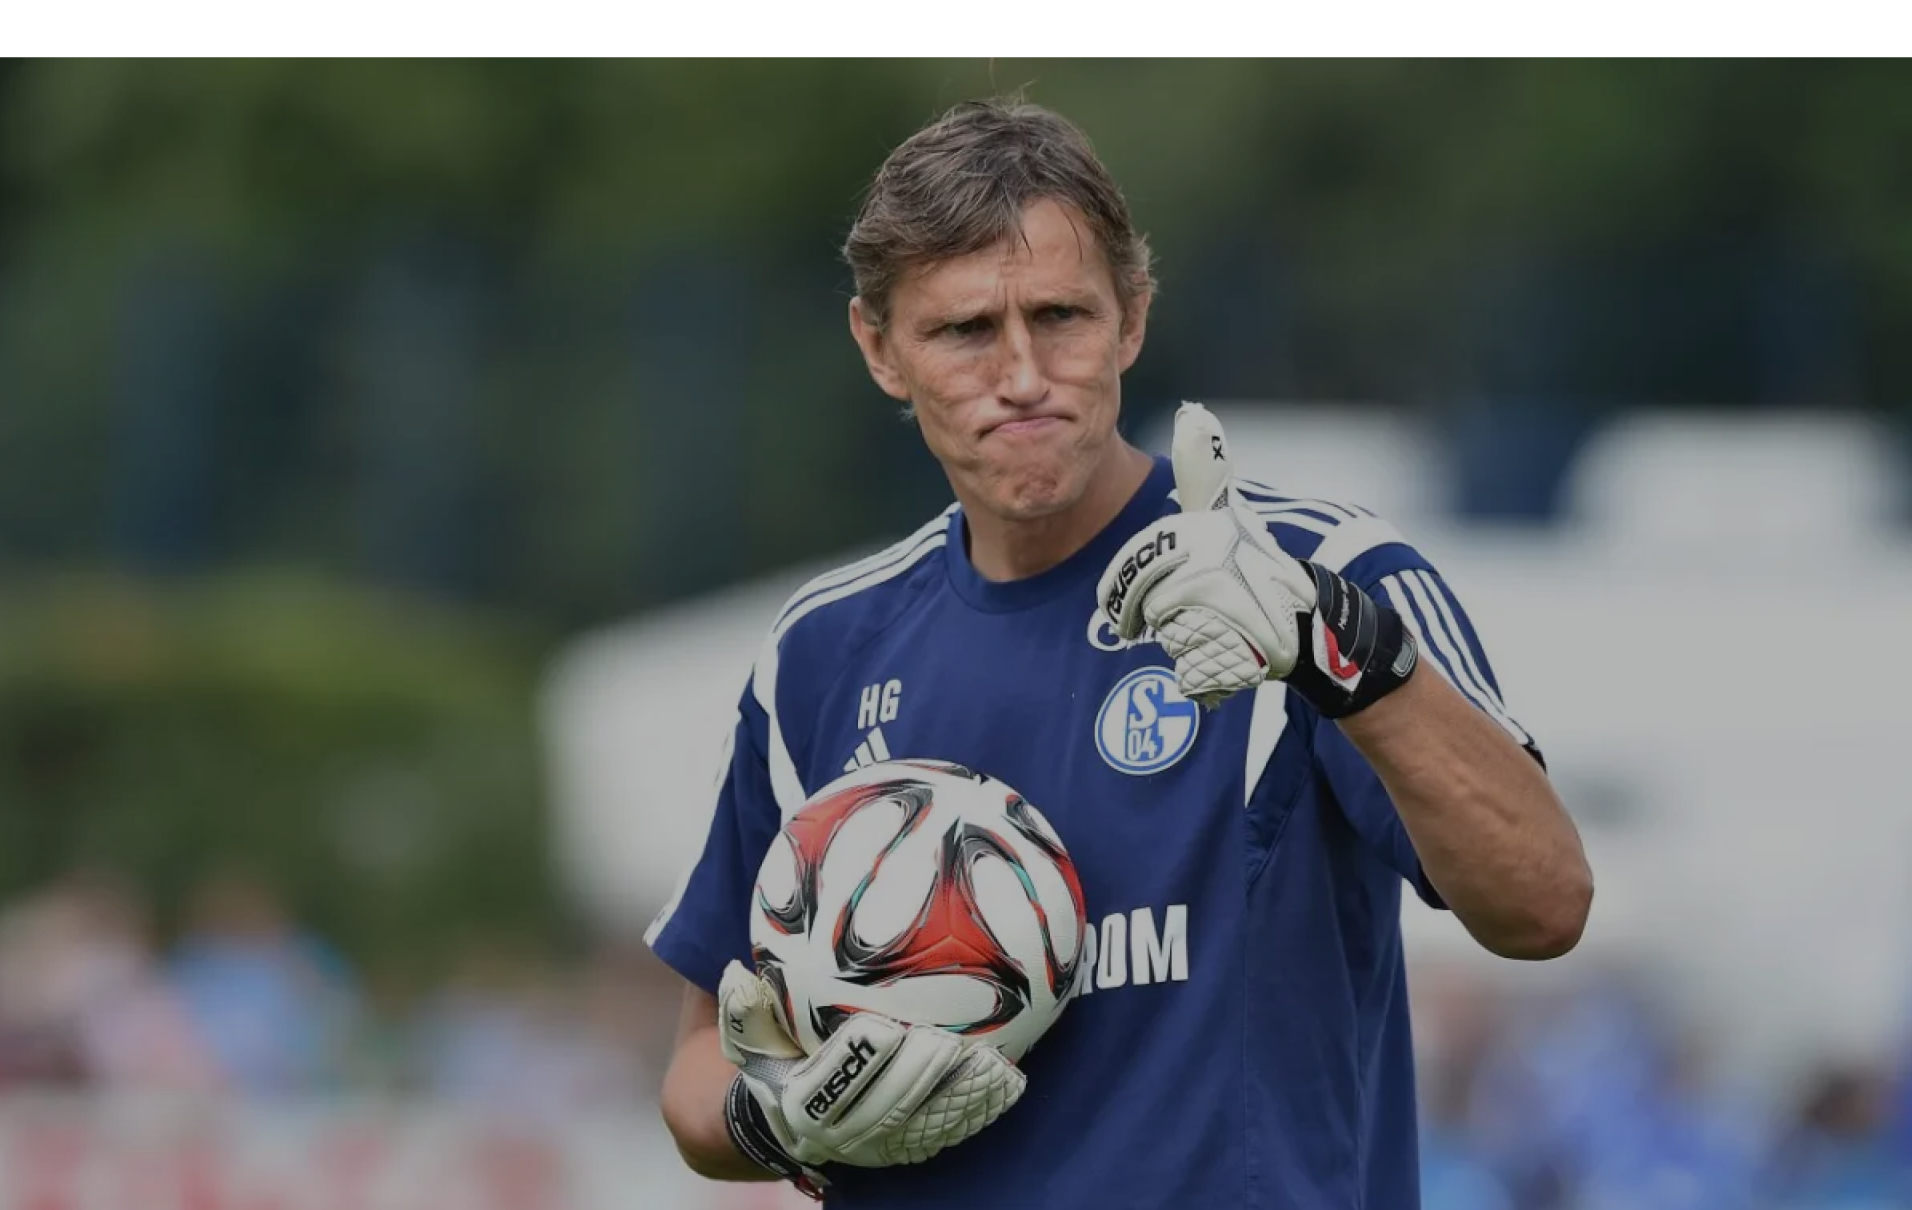
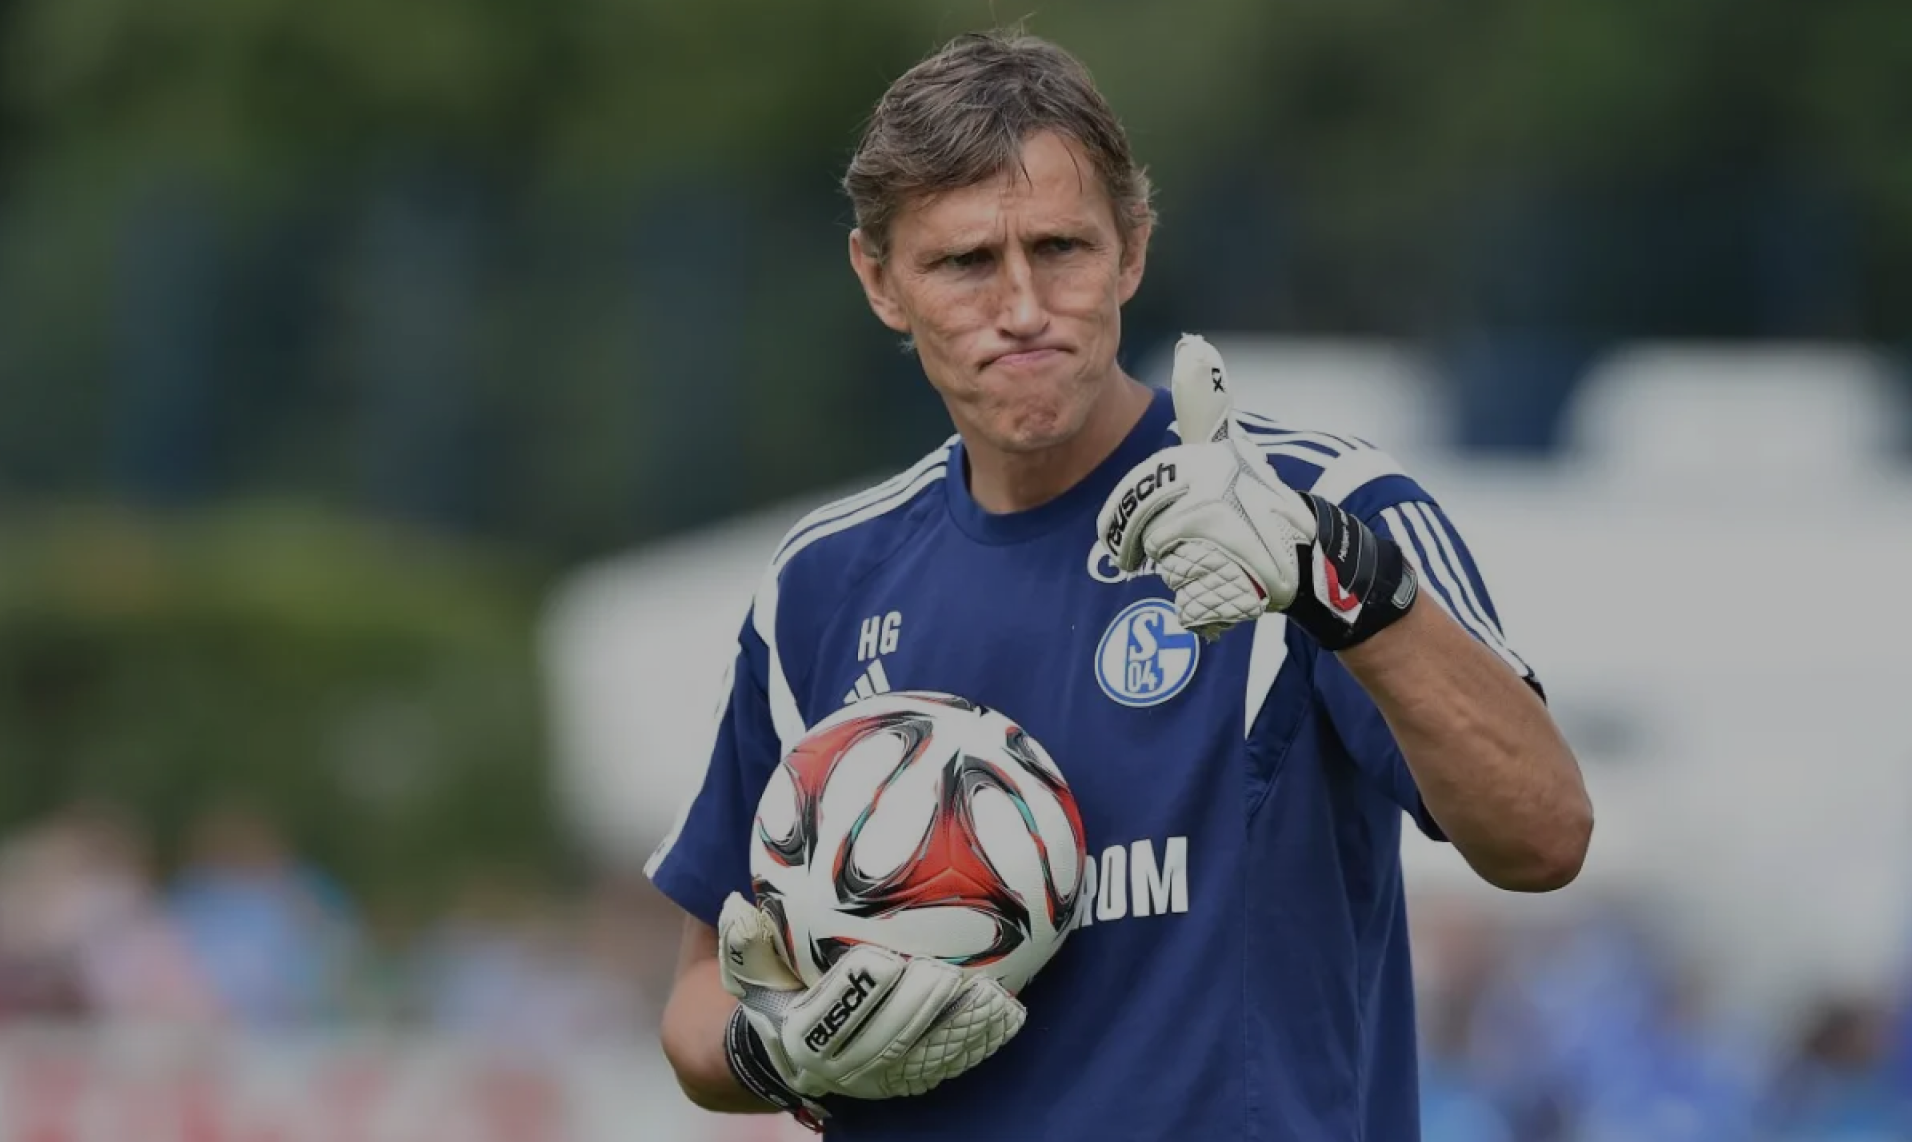
feat: new navbar

diff --git a/athlete.html b/athlete.html
@@ -44,17 +44,17 @@
    </head>
    <body class="">
       <section class="hero-page-athlete">
-         <nav class="navbar navbar-expand-lg navbar-dark bg-light">
-            <div class="container" data-aos="fade-down" data-aos-delay="100" data-aos-duration="400">
+         <nav class="navbar navbar-expand-lg navbar-linear-bg">
+            <div class="container">
                <a class="navbar-brand me-10" href="./">
                   <div class="f-w-10">
-                     <h3 class="display-7 text-dark">Holger Gehrke</h3>
+                     <h3 class="display-7 text-light">HG</h3>
                   </div>
                </a>
                <button class="nav-toggle-btn border-0 bg-transparent btn-open-slideout btn-toggle-slideout">
-               <span class="f-w-10 f-h-1 bg-black d-block mb-2"></span>
-               <span class="f-w-10 f-h-1 bg-black d-block mb-2"></span>
-               <span class="f-w-10 f-h-1 bg-black d-block"></span>
+               <span class="f-w-10 f-h-1 bg-white d-block mb-2"></span>
+               <span class="f-w-10 f-h-1 bg-white d-block mb-2"></span>
+               <span class="f-w-10 f-h-1 bg-white d-block"></span>
                </button>
             </div>
          </nav>

diff --git a/trainer.html b/trainer.html
@@ -45,17 +45,17 @@
    </head>
    <body class="">
       <section class="hero-page-trainer">
-         <nav class="navbar navbar-expand-lg navbar-dark bg-light">
-            <div class="container" data-aos="fade-down" data-aos-delay="100" data-aos-duration="400">
+         <nav class="navbar navbar-expand-lg navbar-linear-bg">
+            <div class="container">
                <a class="navbar-brand me-10" href="./">
                   <div class="f-w-10">
-                     <h3 class="display-7 text-dark">Holger Gehrke</h3>
+                     <h3 class="display-7 text-light">HG</h3>
                   </div>
                </a>
                <button class="nav-toggle-btn border-0 bg-transparent btn-open-slideout btn-toggle-slideout">
-               <span class="f-w-10 f-h-1 bg-black d-block mb-2"></span>
-               <span class="f-w-10 f-h-1 bg-black d-block mb-2"></span>
-               <span class="f-w-10 f-h-1 bg-black d-block"></span>
+               <span class="f-w-10 f-h-1 bg-white d-block mb-2"></span>
+               <span class="f-w-10 f-h-1 bg-white d-block mb-2"></span>
+               <span class="f-w-10 f-h-1 bg-white d-block"></span>
                </button>
             </div>
          </nav>

diff --git a/index.html b/index.html
@@ -44,17 +44,17 @@
    </head>
    <body class="">
       <section class="hero-page-home">
-         <nav class="navbar navbar-expand-lg navbar-dark bg-light">
+         <nav class="navbar navbar-expand-lg navbar-linear-bg">
             <div class="container">
                <a class="navbar-brand me-10" href="#">
                   <div class="f-w-10">
-                     <h3 class="display-7 text-dark">HG</h3>
+                     <h3 class="display-7 text-light">HG</h3>
                   </div>
                </a>
                <button class="nav-toggle-btn border-0 bg-transparent btn-open-slideout btn-toggle-slideout">
-               <span class="f-w-10 f-h-1 bg-black d-block mb-2"></span>
-               <span class="f-w-10 f-h-1 bg-black d-block mb-2"></span>
-               <span class="f-w-10 f-h-1 bg-black d-block"></span>
+               <span class="f-w-10 f-h-1 bg-white d-block mb-2"></span>
+               <span class="f-w-10 f-h-1 bg-white d-block mb-2"></span>
+               <span class="f-w-10 f-h-1 bg-white d-block"></span>
                </button>
             </div>
          </nav>

diff --git a/assets/css/theme.bundle.css b/assets/css/theme.bundle.css
@@ -3943,6 +3943,9 @@ textarea.form-control-lg{
     padding-top:0.5rem;
     padding-bottom:0.5rem;
 }
+nav.navbar-linear-bg {
+    background: linear-gradient(to bottom, var(--bs-primary), transparent);
+}
 .navbar>.container,.navbar>.container-fluid,.navbar>.container-lg,.navbar>.container-md,.navbar>.container-sm,.navbar>.container-xl,.navbar>.container-xxl{
     display:flex;
     flex-wrap:inherit;
